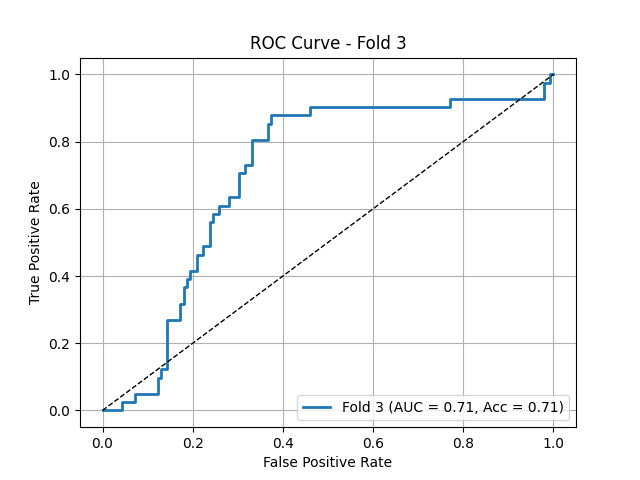
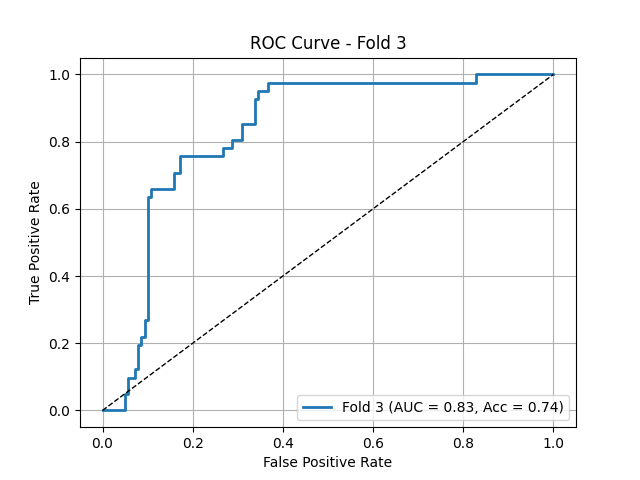
grid distortion increast 0.1 to 0.2

diff --git a/multi_head_models.py b/multi_head_models.py
@@ -344,9 +344,9 @@ class BinaryClassification(pl.LightningModule):
             x, y = batch 
             y2 = y.unsqueeze(-1).repeat((1, self.output_size)).squeeze()
             scores, scores_tail = self.forward(x)  
-            loss = self.loss_fn(scores, y.float())*5 + self.loss_fn(scores_tail[0], y2.float())*0.1 + \
+            loss = self.loss_fn(scores, y.float())*0.2 + self.loss_fn(scores_tail[0], y2.float())*0.1 + \
                         self.loss_fn(scores_tail[1], y2.float()) + self.loss_fn(scores_tail[2], y2.float()) + self.loss_fn(scores_tail[3], y2.float()) +\
-                        self.loss_fn2(scores, y.float())*5 + self.loss_fn2(scores_tail[0], y2.float())*0.1 + \
+                        self.loss_fn2(scores, y.float())*0.2 + self.loss_fn2(scores_tail[0], y2.float())*0.1 + \
                         self.loss_fn2(scores_tail[1], y2.float()) + self.loss_fn2(scores_tail[2], y2.float()) + self.loss_fn2(scores_tail[3], y2.float())
             
         else: 

diff --git a/dataset_washu2.py b/dataset_washu2.py
@@ -83,8 +83,8 @@ train_transform = A.Compose([
 
 	A.ShiftScaleRotate(shift_limit=0.005, scale_limit=0.005, rotate_limit=10, border_mode=0, value=0, p=0.5), 
     A.ElasticTransform(alpha = 0.3, sigma = 250, p=0.5),
-    A.GridDistortion(distort_limit=(-0.1,0.1), p=0.5),
-	A.GaussNoise(std_range=(0.02, 0.2), p=0.9),
+    A.GridDistortion(distort_limit=(-0.4,0.4), p=0.5),
+	A.GaussNoise(std_range=(0.02, 0.1), p=0.9),
     A.RandomBrightnessContrast(brightness_limit=(0, 0.01), contrast_limit=(0, 0.01), p=0.5),
     # #A.CLAHE(clip_limit=.5, tile_grid_size=(8, 8), p=0.5),
     A.Downscale(scale_range=(0.85,0.99), p=0.5),
